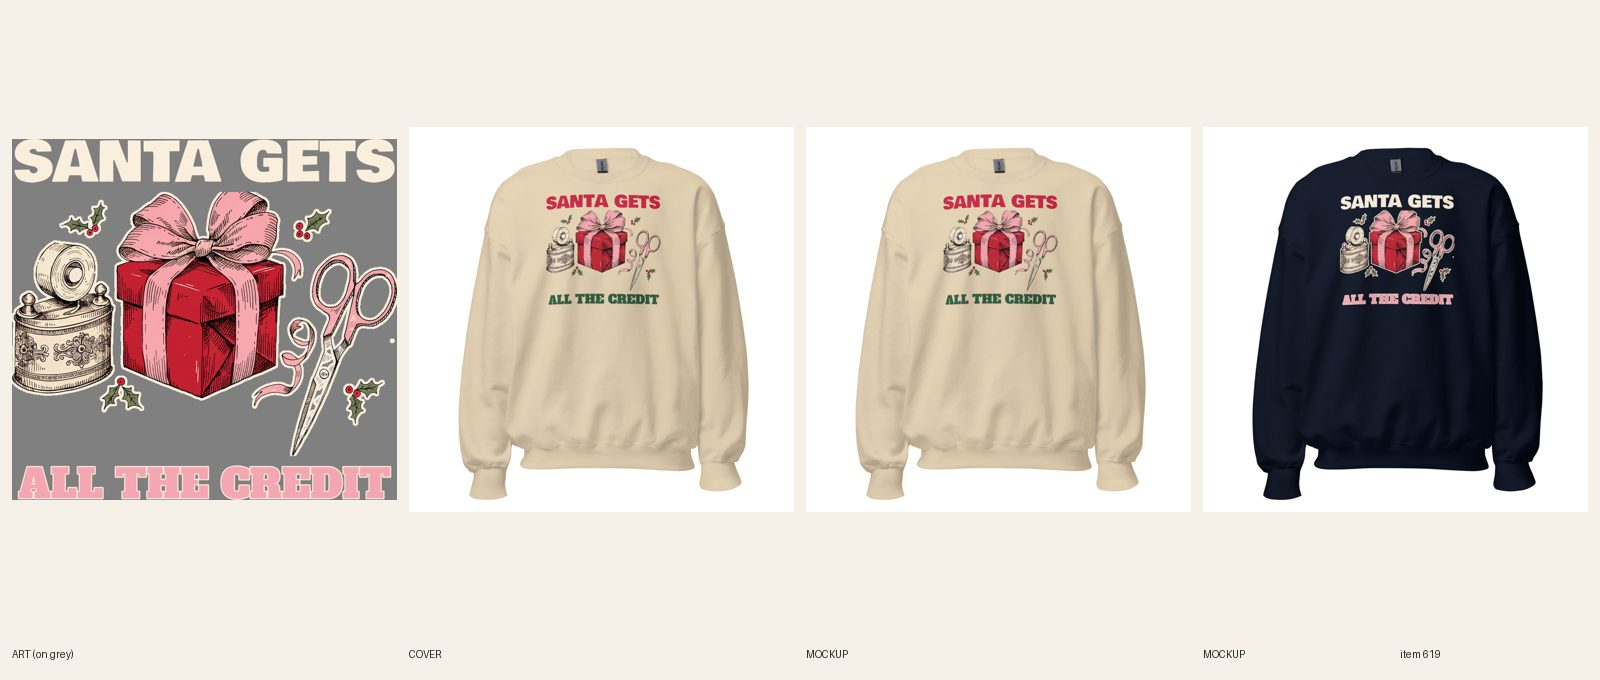
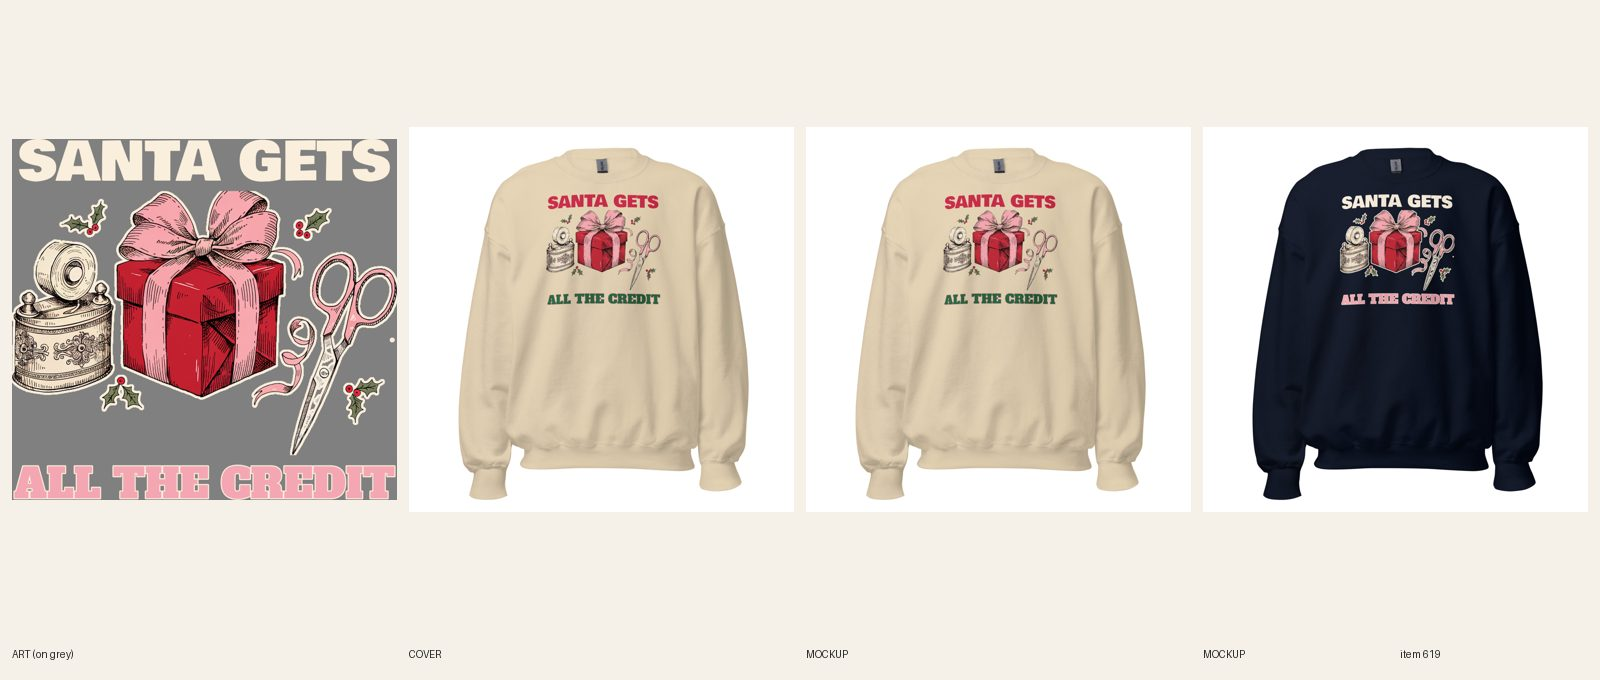
[A] 619 re-lettered so the punch is wider than the headline; new files, sheet

diff --git a/docs/pipeline/619-christmas-crewneck-santa-gets-all-the-credit.md b/docs/pipeline/619-christmas-crewneck-santa-gets-all-the-credit.md
@@ -29,4 +29,4 @@ kd: 8
 ## Log
 - 2026-10-18 07:36 UTC director: brief written, READY (lane A; kd 8; KD ≤ 20 gift-intent band; christmas gifts for wife 40,500 measured with a December surge; proof named under the gate).
 - 2026-10-18 14:06 UTC Claude: KEYWORD FIX before build (R2.10). The primary is a gift-guide search ("christmas gifts for ..."): huge volume, single-digit KD and no competition count on RankHero, the same false signal as "park sweatshirt". People searching it want idea lists, not one shirt. Builder: re-target the primary to a real shirt phrase with a competition count (try e.g. "funny christmas shirt", "secret santa gift", "matching christmas shirts", "christmas shirt for brother" and pick the best measured one, not claimed in docs/product-keyword-map.json). The gift phrase may appear once in copy as a secondary. Then build as normal.
-- 2026-10-20 12:52 UTC builder [A]: BUILT (twin of LIVE #618 tee, plain product shot instead of an AI cover per R6.11). R6.2 check on the source print (#618 file 1089801142, 2880x2703): SANTA GETS in Bowlby One and ALL THE CREDIT in Alfa Slab One are real fonts, no ring, arch, disc, box or typeset line; the art cluster (gift box, tape dispenser, scissors, holly) has no frame. Sand takes the tee's print unchanged (file 1090360265, cherry red + pine green with pink edge). Navy gets its own file 1090360288 (R5.3.8 / brief): SANTA GETS cream, ALL THE CREDIT pink with a cream edge, cream outline around the art cluster so the red box, green holly and scissors read; checked on the Navy mockup. Widths (7h): SANTA GETS 2880 px (headline) / ALL THE CREDIT 2840 px (punch, 99%); subject cluster 2880 px; FW 1650 TOP 75 (crewneck, no pouch). DRAFT gid://shopify/Product/15369722167600 (Gildan 18000, Sand + Navy x S-3XL = 12, $34.99, no compare-at, category aa-1-13-14, tags christmas-sweatshirts, sweatshirt, christmas, ai-art, intake-done); Printful sync 483379509 verified 12/12 (Sand 6 on 1090360265, Navy 6 on 1090360288, back logo 1080398177). Mockups: Sand front + Navy front + back view attached, front mockup linked to every variant of its color, alts per R7.8. Copy: line one carries the line + who wears it + when, plain; primary 'christmas sweatshirt for wife' (RankHero returned no numbers for it in this run, so it is unmeasured; 'christmas gifts for wife' 40,500 / KD 8 per the brief used once as the secondary) in title-adjacent SEO title, line one and meta; FAQs 5 at 48-57 words, order-by Dec 8, free size exchange; ink named from the mockups. No cover model (R6.11): handle added to retired-covers.json. Keyword map updated. design-crops/variant-photo-audit run after publish. fal $0. Audit: only the expected not-visible (DRAFT) error. Sheet docs/review/619.jpg.
+- 2026-10-20 12:52 UTC builder [A]: BUILT (twin of LIVE #618 tee, plain product shot instead of an AI cover per R6.11). R6.2 check on the source print (#618 file 1089801142, 2880x2703): SANTA GETS in Bowlby One and ALL THE CREDIT in Alfa Slab One are real fonts, no ring, arch, disc, box or typeset line; the art cluster (gift box, tape dispenser, scissors, holly) has no frame. Sand takes the tee's art unchanged, re-lettered at full width (file 1090365515, cherry red + pine green with pink edge). Navy gets its own file 1090365534 (R5.3.8 / brief): SANTA GETS cream, ALL THE CREDIT pink with a cream edge, cream outline around the art cluster so the red box, green holly and scissors read; checked on the Navy mockup. Widths (7h, measured from the finished files): headline 2775 px / punch 2864 px (punch wider, Sand) and 2775 / 2860 (Navy); subject cluster 2880 px (the tee's own lockup had the punch at 98% of the headline, so this twin was re-set so the punch is wider); FW 1650 TOP 75 (crewneck, no pouch). DRAFT gid://shopify/Product/15369722167600 (Gildan 18000, Sand + Navy x S-3XL = 12, $34.99, no compare-at, category aa-1-13-14, tags christmas-sweatshirts, sweatshirt, christmas, ai-art, intake-done); Printful sync 483379509 verified 12/12 (Sand 6 on 1090365515, Navy 6 on 1090365534, back logo 1080398177). Mockups: Sand front + Navy front + back view attached, front mockup linked to every variant of its color, alts per R7.8. Copy: line one carries the line + who wears it + when, plain; primary 'christmas sweatshirt for wife' (RankHero returned no numbers for it in this run, so it is unmeasured; 'christmas gifts for wife' 40,500 / KD 8 per the brief used once as the secondary) in title-adjacent SEO title, line one and meta; FAQs 5 at 48-57 words, order-by Dec 8, free size exchange; ink named from the mockups. No cover model (R6.11): handle added to retired-covers.json. Keyword map updated. design-crops/variant-photo-audit run after publish. fal $0. Audit: only the expected not-visible (DRAFT) error. Sheet docs/review/619.jpg.
